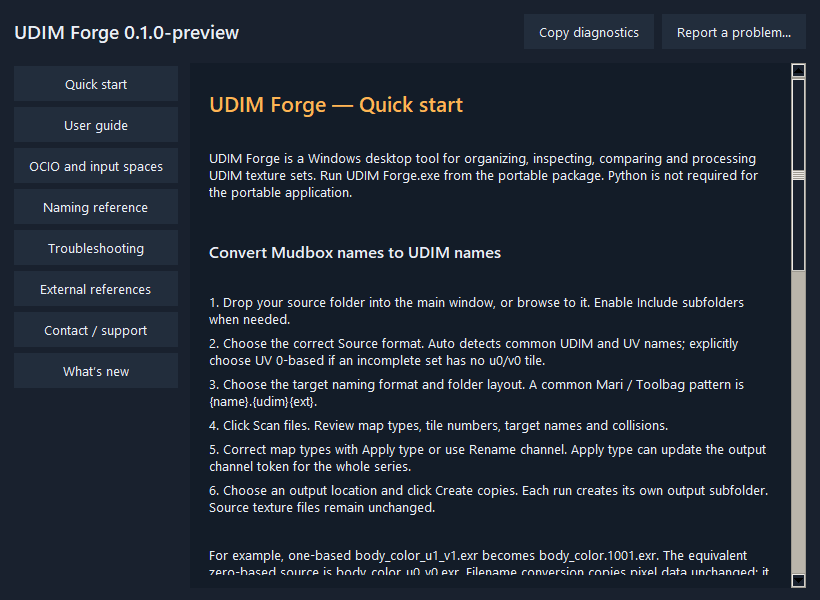
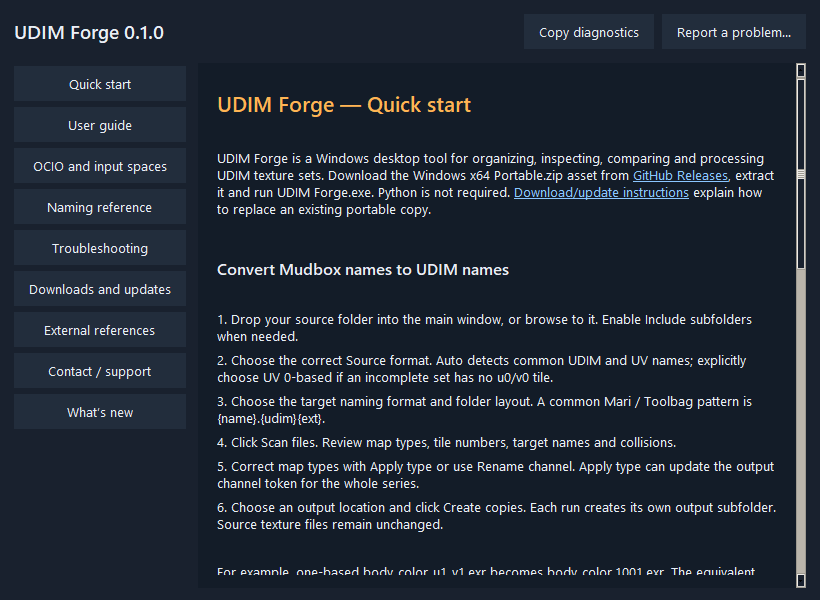
Document UDIM Forge 0.1.0 release and portable updates

diff --git a/docs/updates.md b/docs/updates.md
@@ -1,0 +1,29 @@
+# Downloads and updates
+
+## Download the portable app
+
+Use [GitHub Releases](https://github.com/Forge-Plugins/UDIM-forge/releases/latest) and download the Windows x64 portable ZIP, for example UDIM_Forge_v0.1.0_Windows_x64_Portable.zip. Extract the whole archive to a writable folder and run UDIM Forge.exe. Python is not required.
+
+The Git repository contains documentation, changelog and issue templates. The portable program is a Release asset, not a file committed to Git. GitHub's automatically generated source archives contain the documentation repository, not the application. Choose the named Portable.zip asset.
+
+## Check for a newer version
+
+Open Help & Support → Check for updates…. The check runs in a background thread and uses GitHub's public latest-stable-release metadata. A GitHub account is not required. It runs only when requested, not automatically at startup.
+
+The dialog shows the installed/latest version and release notes. Download portable opens the exact project's ZIP asset in your browser. Open Releases is available if a check fails or a matching Windows x64 ZIP is missing. No automatic installation or restart occurs.
+
+A connection error, GitHub rate limit or missing release is reported separately; these states are never presented as an up-to-date result. Use Check again to retry. Draft and prerelease builds are not part of the stable update channel.
+
+## Replace your portable copy
+
+1. Finish or cancel active exports and close the old application.
+2. Extract the new ZIP to a new folder or replace the old portable files while the app is closed.
+3. Run the new UDIM Forge.exe. Update any shortcut if you changed the installation folder.
+
+User settings, profiles and recovery storage remain in %APPDATA%\UDIM Studio for compatibility. OCIO config/LUT paths and texture/cache paths remain your own external resources. Updating the application does not replace original textures.
+
+Each release includes SHA256SUMS.txt. On Windows, use Get-FileHash on the downloaded ZIP with Algorithm SHA256 and compare the result with that file. The checksum verifies the downloaded bytes against the published package; it is not a publisher signature.
+
+- [Quick start](quick-start.md)
+- [Troubleshooting](troubleshooting.md)
+- [Contact / support](support.md)

diff --git a/CHANGELOG.md b/CHANGELOG.md
@@ -1,0 +1,28 @@
+# What’s new
+
+## 0.1.0 — 2026-10-24
+
+First public Windows x64 portable release. Download UDIM_Forge_v0.1.0_Windows_x64_Portable.zip and SHA256SUMS.txt from [GitHub Releases](https://github.com/Forge-Plugins/UDIM-forge/releases/tag/v0.1.0).
+
+- Help & Support → Check for updates… checks the latest stable release in the background, shows release notes and opens the correct portable download in your browser.
+- Manual checks only; network errors/rate limits/missing releases are explicit. No automatic installation, restart or texture uploads.
+- A versioned portable package and SHA-256 checksum are attached to the release. Git stores documentation/changelog and support templates; the application source and EXE are not committed.
+
+## Original preview functionality
+
+- New application name and Windows executable: UDIM Forge.
+- Help & Support menu with embedded offline documentation, Quick start, user guide, naming/OCIO references, troubleshooting and contact links.
+- GitHub issue forms for problems and feature requests; diagnostics copied locally on request.
+- Existing UDIM Studio settings, profiles, caches, reports and comparison sessions remain compatible.
+
+## Included workflows
+
+- UDIM/UV filename conversion, channel renaming, folder organization, folder drops and profiles.
+- Native pixel inspection, channels/Alpha, EXR exposure/gamma, histograms, min/max, ROI statistics and validation.
+- A/B/C/D set comparison, cached Wipe, native differences, threshold highlights, change-region navigation and CSV reports.
+- Persistent comparison sessions, incremental source revision checks, autosave and recovery history.
+- Large-texture streaming and persistent PSD/PSB saved-composite cache with queue/progress/cancellation.
+- Copy-only batch texture operations, ORM/RMA channel packing and UDIM resizing with normal-map normalization.
+- Display-only OCIO with global, set/folder/type/extension input assignments and session-local policies.
+
+See the [user guide](docs/user-guide.md) and [update instructions](docs/updates.md) for supported behavior, limitations and installation steps.

diff --git a/README.md b/README.md
@@ -2,7 +2,13 @@
 
 A Windows desktop toolkit for UDIM texture sets: organize names and folders, inspect native pixels, compare A/B/C/D versions, validate assets and export processed copies.
 
-This repository hosts documentation and the public issue tracker. Application source and binaries are distributed separately; the documentation does not imply that a downloadable release is already published here.
+This Git repository contains documentation, changelog and issue templates. Application source and EXE files are not committed to Git. Portable binaries are attached to **GitHub Releases**.
+
+## Download
+
+[Download UDIM Forge 0.1.0 — Windows x64 portable](https://github.com/Forge-Plugins/UDIM-forge/releases/download/v0.1.0/UDIM_Forge_v0.1.0_Windows_x64_Portable.zip) · [Latest release](https://github.com/Forge-Plugins/UDIM-forge/releases/latest) · [Changelog](CHANGELOG.md)
+
+Extract the ZIP and run **UDIM Forge.exe**. No Python installation is required. GitHub’s automatic source archives contain documentation only. The release includes SHA256SUMS.txt. Inside the app, use **Help & Support → Check for updates…** to check the stable channel and open the portable download.
 
 ## Documentation
 
@@ -13,7 +19,8 @@ This repository hosts documentation and the public issue tracker. Application so
 - [Troubleshooting](docs/troubleshooting.md) — previews, large files, cache, colors and recovery.
 - [External references](docs/references.md) — official format and pipeline documentation.
 - [Contact / support](docs/support.md) — reporting problems and copying diagnostics.
-- [What’s new](docs/changelog.md) — current preview functionality.
+- [Downloads and updates](docs/updates.md) — portable installation and manual update checks.
+- [Changelog](CHANGELOG.md) — released changes and included workflows.
 
 The application includes these guides offline in **Help & Support**. Its UI and documentation are in English.
 

diff --git a/docs/changelog.md b/docs/changelog.md
@@ -1,6 +1,14 @@
 # What’s new
 
-## 0.1.0-preview — UDIM Forge
+## 0.1.0 — 2026-10-24
+
+First public Windows x64 portable release. Download UDIM_Forge_v0.1.0_Windows_x64_Portable.zip and SHA256SUMS.txt from [GitHub Releases](https://github.com/Forge-Plugins/UDIM-forge/releases/tag/v0.1.0).
+
+- Help & Support → Check for updates… checks the latest stable release in the background, shows release notes and opens the correct portable download in your browser.
+- Manual checks only; network errors/rate limits/missing releases are explicit. No automatic installation, restart or texture uploads.
+- A versioned portable package and SHA-256 checksum are attached to the release. Git stores documentation/changelog and support templates; the application source and EXE are not committed.
+
+## Original preview functionality
 
 - New application name and Windows executable: UDIM Forge.
 - Help & Support menu with embedded offline documentation, Quick start, user guide, naming/OCIO references, troubleshooting and contact links.
@@ -17,4 +25,4 @@
 - Copy-only batch texture operations, ORM/RMA channel packing and UDIM resizing with normal-map normalization.
 - Display-only OCIO with global, set/folder/type/extension input assignments and session-local policies.
 
-See the [user guide](user-guide.md) for supported behavior and limitations.
+See the [user guide](user-guide.md) and [update instructions](updates.md) for supported behavior, limitations and installation steps.

diff --git a/docs/quick-start.md b/docs/quick-start.md
@@ -1,6 +1,6 @@
 # UDIM Forge — Quick start
 
-UDIM Forge is a Windows desktop tool for organizing, inspecting, comparing and processing UDIM texture sets. Run UDIM Forge.exe from the portable package. Python is not required for the portable application.
+UDIM Forge is a Windows desktop tool for organizing, inspecting, comparing and processing UDIM texture sets. Download the Windows x64 Portable.zip asset from [GitHub Releases](https://github.com/Forge-Plugins/UDIM-forge/releases/latest), extract it and run UDIM Forge.exe. Python is not required. [Download/update instructions](updates.md) explain how to replace an existing portable copy.
 
 ## Convert Mudbox names to UDIM names
 

diff --git a/docs/support.md b/docs/support.md
@@ -1,6 +1,6 @@
 # Contact / support
 
-UDIM Forge 0.1.0-preview is developed under Forge-Plugins. The GitHub repository is the public documentation and support hub.
+UDIM Forge 0.1.0 is developed under Forge-Plugins. The GitHub repository is the public documentation, changelog and support hub. Portable downloads are attached to GitHub Releases; application source is not published in Git.
 
 - [Report a problem](https://github.com/Forge-Plugins/UDIM-forge/issues/new?template=bug_report.yml)
 - [Request a feature](https://github.com/Forge-Plugins/UDIM-forge/issues/new?template=feature_request.yml)

diff --git a/docs/user-guide.md b/docs/user-guide.md
@@ -8,6 +8,8 @@ The rename preserves settings, profiles, caches and saved sessions. The settings
 
 [Quick start](quick-start.md) · [OCIO guide](ocio.md) · [Naming reference](naming.md) · [Troubleshooting](troubleshooting.md) · [Support](support.md)
 
+Download Windows x64 portable releases from https://github.com/Forge-Plugins/UDIM-forge/releases/latest. Use **Help & Support → Check for updates…** for a manual background check and portable download. See [update instructions](updates.md).
+
 ## Quick start
 
 1. Choose your source folder. Enable **Include subfolders** if needed.
